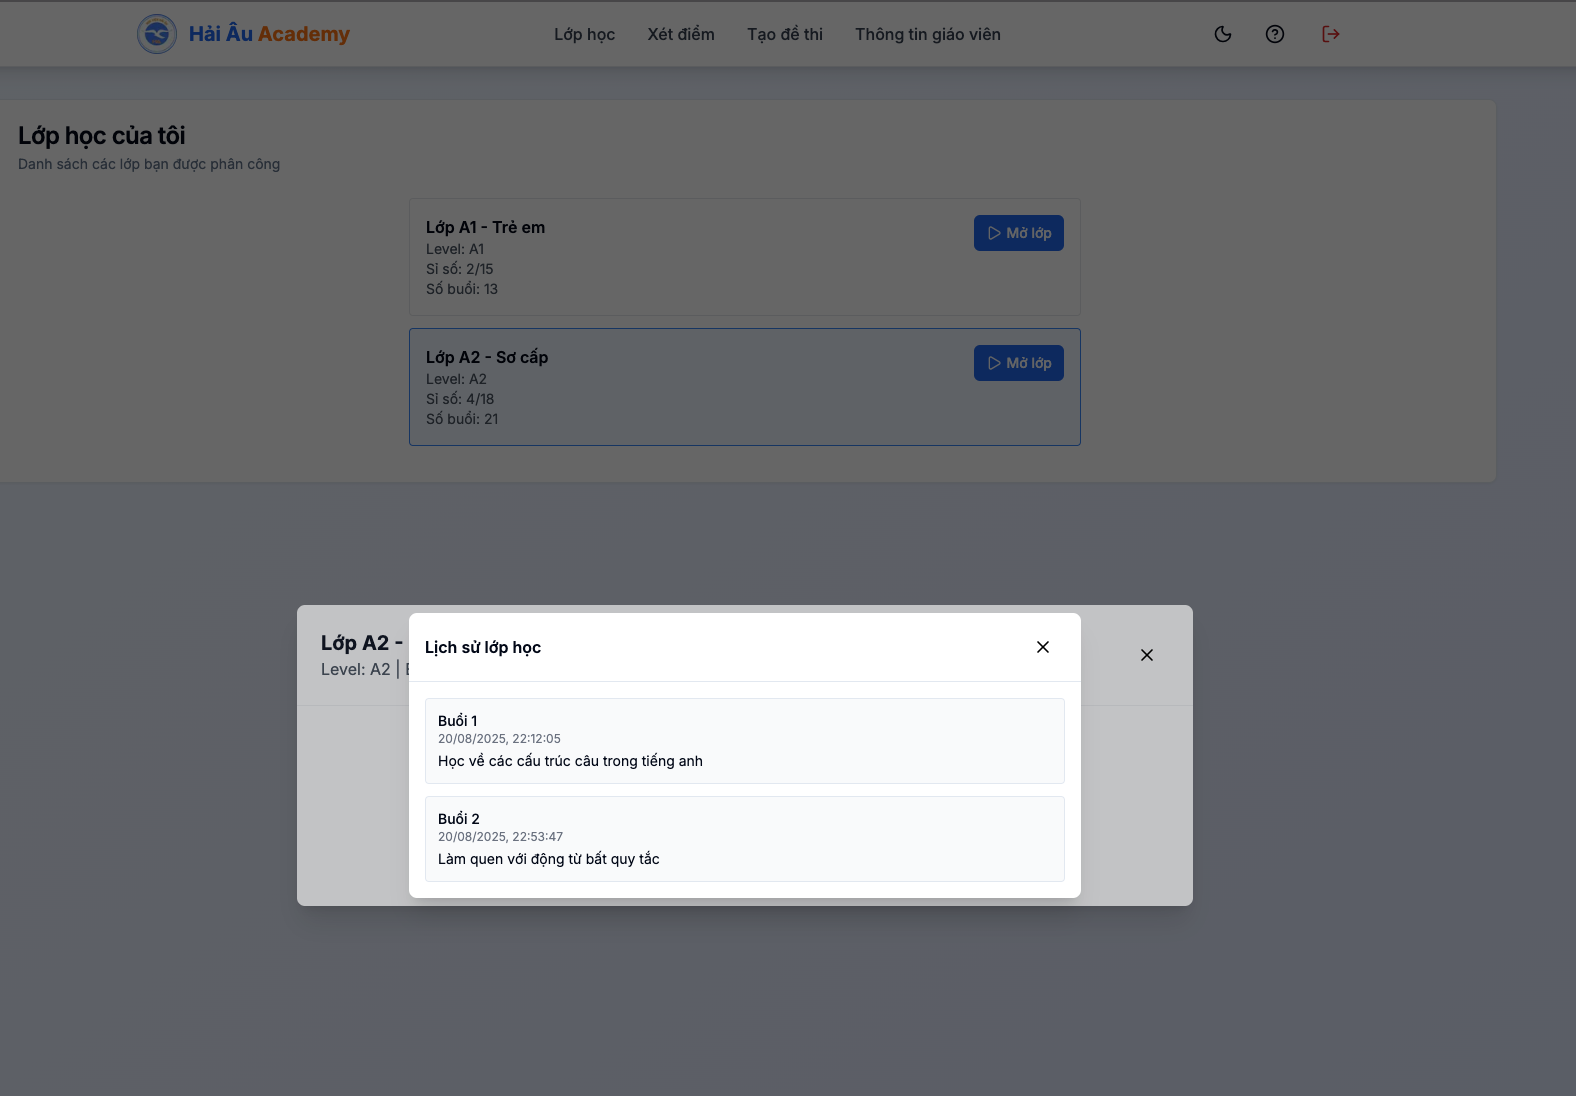
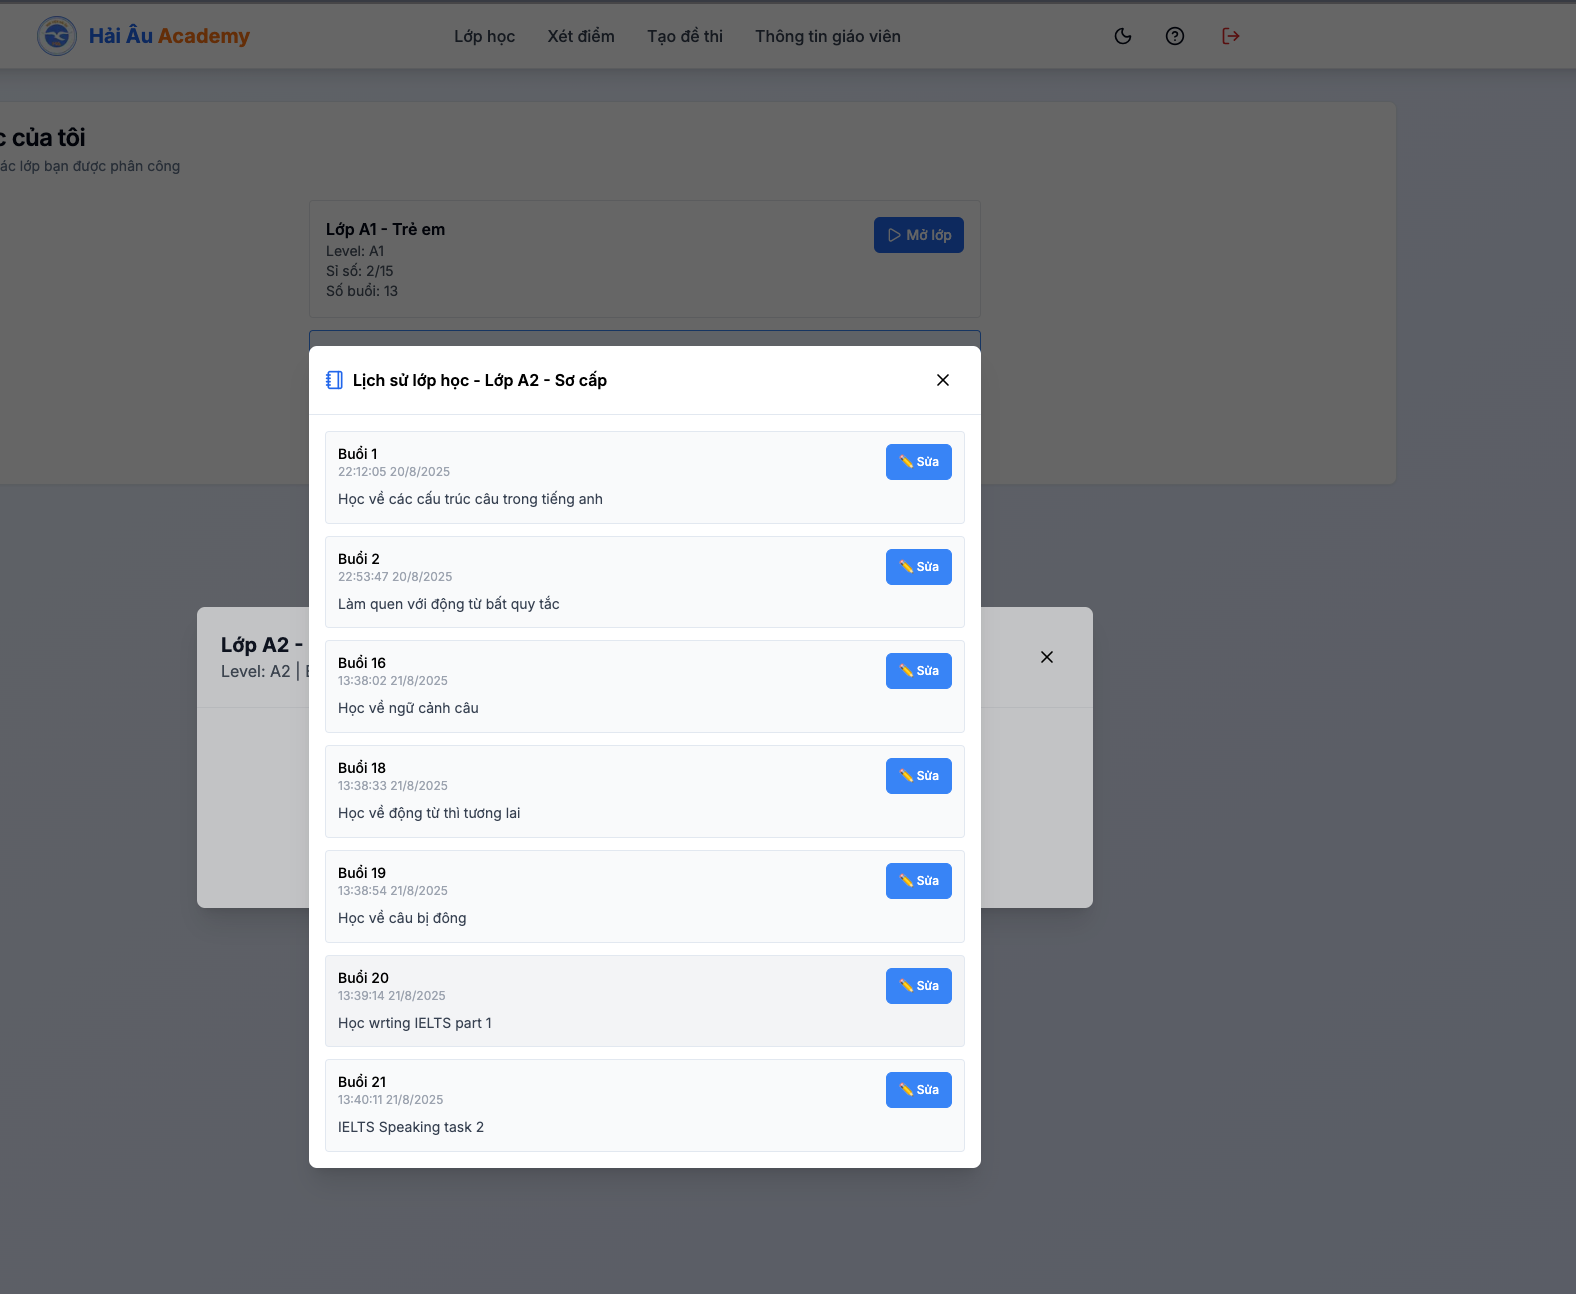
Upd history note edit

diff --git a/src/app/teacher/lop-hoc/page.tsx b/src/app/teacher/lop-hoc/page.tsx
@@ -25,6 +25,7 @@ interface StudentItem {
 }
 
 interface ClassNoteItem {
+  id: string
   sessionNumber: number
   createdAt: string
   content: string
@@ -67,6 +68,9 @@ export default function TeacherClassesPage() {
   const [showHistoryModal, setShowHistoryModal] = useState(false)
   const [historyNotes, setHistoryNotes] = useState<ClassNoteItem[]>([])
   const [isLoadingHistory, setIsLoadingHistory] = useState(false)
+  const [editingNoteId, setEditingNoteId] = useState<string | null>(null)
+  const [editingNoteContent, setEditingNoteContent] = useState("")
+  const [isSavingNote, setIsSavingNote] = useState(false)
 
   useEffect(() => {
     if (status === "loading") return
@@ -192,7 +196,7 @@ export default function TeacherClassesPage() {
     try {
       const r = await fetch(`/api/teacher/classroom?classId=${selectedClass.id}&history=true`)
       if (r.ok) {
-        const data = await r.json() as { notes: { sessionNumber: number, createdAt: string, content: string }[] }
+        const data = await r.json() as { notes: { id: string, sessionNumber: number, createdAt: string, content: string }[] }
         setHistoryNotes(data.notes || [])
       }
     } catch (e) {
@@ -204,6 +208,51 @@ export default function TeacherClassesPage() {
 
   const closeHistory = () => {
     setShowHistoryModal(false)
+    setEditingNoteId(null)
+    setEditingNoteContent("")
+  }
+
+  const startEditingNote = (note: ClassNoteItem) => {
+    setEditingNoteId(note.id)
+    setEditingNoteContent(note.content)
+  }
+
+  const cancelEditingNote = () => {
+    setEditingNoteId(null)
+    setEditingNoteContent("")
+  }
+
+  const saveEditedNote = async () => {
+    if (!editingNoteId || !selectedClass) return
+    
+    setIsSavingNote(true)
+    try {
+      const response = await fetch(`/api/teacher/classroom/notes/${editingNoteId}`, {
+        method: "PUT",
+        headers: { "Content-Type": "application/json" },
+        body: JSON.stringify({ content: editingNoteContent })
+      })
+      
+      if (response.ok) {
+        // Update the note in local state
+        setHistoryNotes(prev => prev.map(note => 
+          note.id === editingNoteId 
+            ? { ...note, content: editingNoteContent }
+            : note
+        ))
+        
+        setEditingNoteId(null)
+        setEditingNoteContent("")
+        alert("Đã lưu ghi chú thành công!")
+      } else {
+        alert("Có lỗi khi lưu ghi chú")
+      }
+    } catch (error) {
+      console.error('Error saving note:', error)
+      alert("Có lỗi khi lưu ghi chú")
+    } finally {
+      setIsSavingNote(false)
+    }
   }
 
   const toggleStudent = (id: string) => {
@@ -532,6 +581,9 @@ export default function TeacherClassesPage() {
                         onChange={(e) => setNote(e.target.value)} 
                         placeholder="Nội dung buổi học..." 
                       />
+                      <div className="text-xs text-gray-500 dark:text-gray-400">
+                        Nhấn Enter để lưu nhanh, hoặc sử dụng nút Lưu/Hủy
+                      </div>
                     </div>
                   </>
                 )}
@@ -543,24 +595,99 @@ export default function TeacherClassesPage() {
               <div className="fixed inset-0 bg-black bg-opacity-20 flex items-center justify-center z-60 p-4">
                 <div className="bg-white rounded-lg shadow-xl max-w-2xl w-full max-h-[80vh] overflow-y-auto">
                   <div className="flex items-center justify-between p-4 border-b">
-                    <h3 className="font-semibold text-black">Lịch sử lớp học</h3>
+                    <div className="flex items-center gap-2">
+                      <Notebook className="w-5 h-5 text-blue-600" />
+                      <h3 className="font-semibold text-black">Lịch sử lớp học - {selectedClass?.name}</h3>
+                    </div>
                     <Button variant="ghost" size="sm" onClick={closeHistory} className="group hover:bg-red-100">
                       <X className="w-5 h-5 text-black group-hover:text-red-600" />
                     </Button>
                   </div>
                   <div className="p-4 space-y-3">
                     {isLoadingHistory ? (
-                      <div className="flex items-center justify-center py-6">
-                        <Loader2 className="w-6 h-6 animate-spin" />
+                      <div className="flex items-center justify-center py-8">
+                        <div className="text-center">
+                          <Loader2 className="w-8 h-8 animate-spin mx-auto mb-2 text-blue-600" />
+                          <p className="text-gray-600">Đang tải lịch sử lớp học...</p>
+                        </div>
                       </div>
                     ) : historyNotes.length === 0 ? (
-                      <div className="text-sm text-gray-600">Chưa có lịch sử ghi chú.</div>
+                      <div className="text-center py-8">
+                        <Notebook className="w-12 h-12 text-gray-400 mx-auto mb-3" />
+                        <p className="text-gray-600 font-medium">Chưa có lịch sử ghi chú</p>
+                        <p className="text-sm text-gray-500 mt-1">Ghi chú sẽ xuất hiện sau khi bạn kết thúc các buổi học</p>
+                      </div>
                     ) : (
                       historyNotes.map((n) => (
-                        <div key={`${n.sessionNumber}-${n.createdAt}`} className="border rounded p-3 bg-gray-50">
-                          <div className="text-sm font-medium">Buổi {n.sessionNumber}</div>
-                          <div className="text-xs text-gray-500 mb-1">{new Date(n.createdAt).toLocaleString()}</div>
-                          <div className="text-sm">{n.content}</div>
+                        <div key={`${n.sessionNumber}-${n.createdAt}`} className="border border-gray-200 dark:border-gray-600 rounded p-3 bg-gray-50 dark:bg-gray-800 hover:bg-gray-100 dark:hover:bg-gray-700 transition-colors">
+                          <div className="flex items-start justify-between mb-2">
+                            <div>
+                              <div className="text-sm font-medium text-black dark:text-white">Buổi {n.sessionNumber}</div>
+                              <div className="text-xs text-gray-400 dark:text-gray-300">{new Date(n.createdAt).toLocaleString('vi-VN')}</div>
+                            </div>
+                            {editingNoteId === n.id ? (
+                              <div className="flex items-center gap-2">
+                                <Button
+                                  size="sm"
+                                  variant="outline"
+                                  onClick={saveEditedNote}
+                                  disabled={isSavingNote}
+                                  className="text-xs bg-green-500 hover:bg-green-600 text-white border-green-500 hover:bg-green-700"
+                                >
+                                  {isSavingNote ? (
+                                    <Loader2 className="w-3 h-3 mr-1 animate-spin" />
+                                  ) : (
+                                    <span>💾</span>
+                                  )}
+                                  Lưu
+                                </Button>
+                                <Button
+                                  size="sm"
+                                  variant="outline"
+                                  onClick={cancelEditingNote}
+                                  className="text-xs bg-gray-500 hover:bg-gray-600 text-white border-gray-500 hover:bg-gray-700"
+                                >
+                                  ✕ Hủy
+                                </Button>
+                              </div>
+                            ) : (
+                              <Button
+                                size="sm"
+                                variant="outline"
+                                onClick={() => startEditingNote(n)}
+                                className="text-xs bg-blue-500 hover:bg-blue-600 text-white border-blue-500 hover:bg-blue-700 transition-colors"
+                              >
+                                ✏ Sửa
+                              </Button>
+                            )}
+                          </div>
+                          
+                          {editingNoteId === n.id ? (
+                            <div className="space-y-2">
+                              <textarea
+                                value={editingNoteContent}
+                                onChange={(e) => setEditingNoteContent(e.target.value)}
+                                onKeyDown={(e) => {
+                                  if (e.key === 'Enter' && !e.shiftKey) {
+                                    e.preventDefault()
+                                    saveEditedNote()
+                                  }
+                                  if (e.key === 'Escape') {
+                                    cancelEditingNote()
+                                  }
+                                }}
+                                className="w-full border border-gray-300 dark:border-gray-500 rounded p-2 text-sm bg-white dark:bg-gray-700 text-gray-900 dark:text-white focus:ring-2 focus:ring-blue-500 focus:border-blue-500 dark:focus:ring-blue-400 dark:focus:border-blue-400"
+                                rows={3}
+                                placeholder="Nhập nội dung ghi chú..."
+                                autoFocus
+                              />
+                              <div className="text-xs text-gray-500 dark:text-gray-400">
+                                Nhấn Enter để lưu nhanh, hoặc sử dụng nút Lưu/Hủy
+                              </div>
+                            </div>
+                          ) : (
+                            <div className="text-sm text-gray-700 dark:text-gray-200 leading-relaxed">{n.content}</div>
+                          )}
                         </div>
                       ))
                     )}

diff --git a/src/app/api/teacher/classroom/notes/[id]/route.ts b/src/app/api/teacher/classroom/notes/[id]/route.ts
@@ -1,0 +1,59 @@
+import { NextRequest, NextResponse } from "next/server"
+import { prisma } from "@/lib/db"
+
+export async function PUT(
+  request: NextRequest,
+  { params }: { params: Promise<{ id: string }> }
+) {
+  try {
+    const { id } = await params
+    const body = await request.json()
+    const { content } = body as { content: string }
+
+    if (!content || content.trim() === "") {
+      return NextResponse.json(
+        { error: "Nội dung ghi chú không được để trống" },
+        { status: 400 }
+      )
+    }
+
+    // Ensure database connection is ready
+    try {
+      await prisma.$connect()
+    } catch (connectionError) {
+      console.error('❌ Database connection failed:', connectionError)
+      return NextResponse.json({ 
+        error: 'Database connection failed. Please try again.' 
+      }, { status: 503 })
+    }
+
+    // Update the note
+    const updatedNote = await prisma.classNote.update({
+      where: { id },
+      data: { content: content.trim() },
+      select: {
+        id: true,
+        sessionNumber: true,
+        content: true,
+        createdAt: true
+      }
+    })
+
+    console.log(`✅ Note ${id} updated successfully`)
+    return NextResponse.json(updatedNote)
+
+  } catch (error) {
+    console.error('❌ Error updating note:', error)
+    
+    if (error instanceof Error && error.message.includes('Engine is not yet connected')) {
+      return NextResponse.json({ 
+        error: 'Database connection issue. Please try again.' 
+      }, { status: 503 })
+    }
+    
+    return NextResponse.json(
+      { error: 'Có lỗi xảy ra khi cập nhật ghi chú' },
+      { status: 500 }
+    )
+  }
+}
